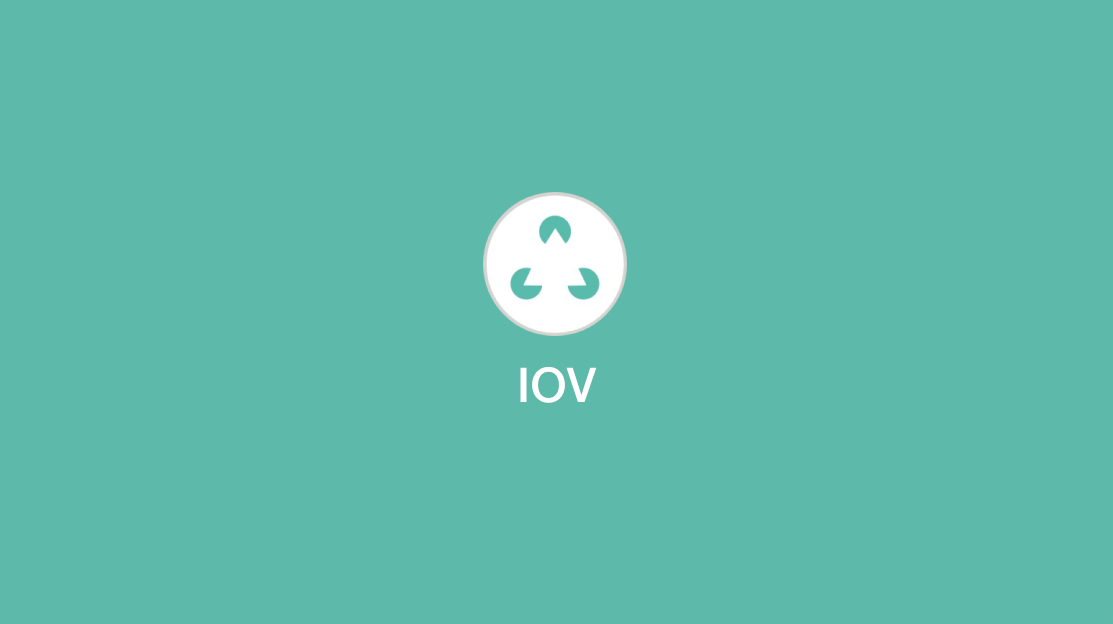
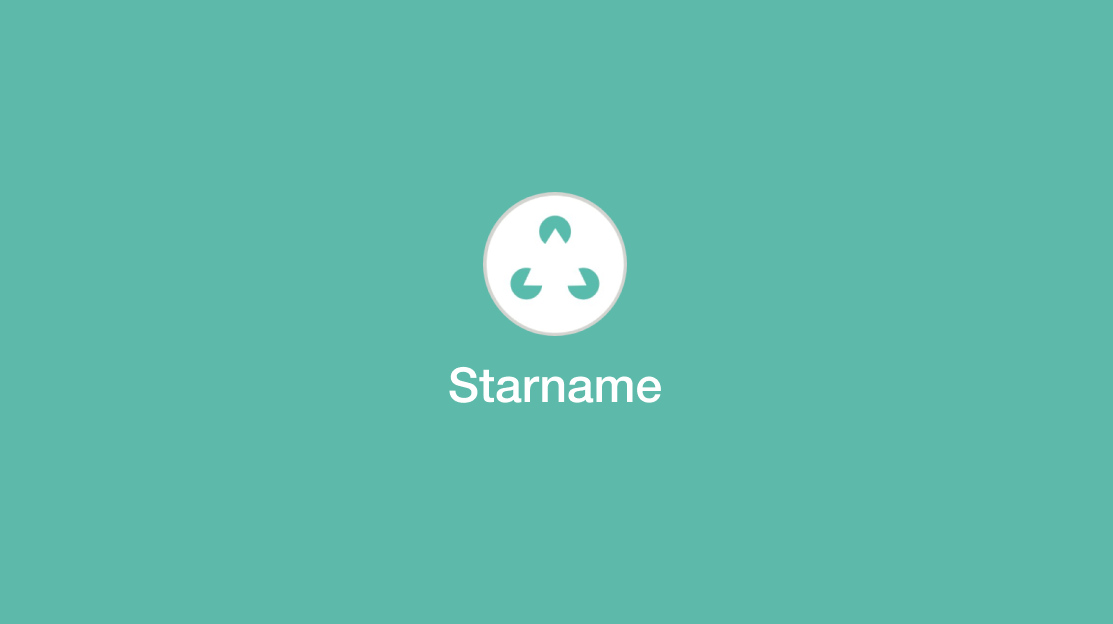
Update/links (#31)

Changed region(s): [[0.3971, 0.5785, 0.611, 0.6699]]

diff --git a/src/models/network.ts b/src/models/network.ts
@@ -5,13 +5,16 @@ const banners = {
   'Cosmos Hub': '/images/networks/cosmos.png',
   IRISnet: 'images/networks/IRISnet.png',
   'e-Money': 'images/networks/e-money.png',
-  IOV: 'images/networks/iov.png',
+  'Starname (IOV)': 'images/networks/iov.png',
   Kava: 'images/networks/kava.png',
   'Band Protocol': 'images/networks/band-protocol.png',
   LikeCoin: 'images/networks/likecoin.png',
   Akash: 'images/networks/akash.png',
   StraightEdge: 'images/networks/straight-edge.png',
-  Desmos: 'images/networks/desmos.png',
+  DESMOS: 'images/networks/desmos.png',
+  'Fetch.AI': 'images/networks/fetch-ai.png',
+  Celo: 'images/networks/celo.png',
+  Flow: 'images/networks/flow.png',
 };
 
 export type Link = {

diff --git a/src/screens/home/hooks.tsx b/src/screens/home/hooks.tsx
@@ -6,7 +6,7 @@ import { Network } from '@models';
 import { formatNetworkData } from './utils';
 
 export const useHomeHook = () => {
-  const NETWORK_LIST_API = 'https://gist.githubusercontent.com/kwunyeung/8be4598c77c61e497dfc7220a678b3ee/raw/bd-networks.json';
+  const NETWORK_LIST_API = 'https://raw.githubusercontent.com/forbole/big-dipper-networks/main/networks.json';
 
   const [networks, setNetworks] = useState<Network[]>([]);
 
@@ -16,6 +16,7 @@ export const useHomeHook = () => {
       try {
         const results = await axios.get(NETWORK_LIST_API);
         data = results?.data ?? [];
+        console.log(data, 'data');
       } catch (error) {
         console.error(error);
       }
